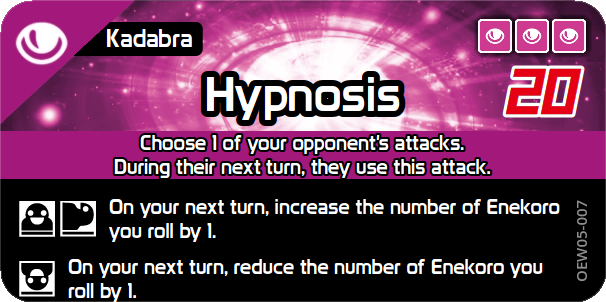
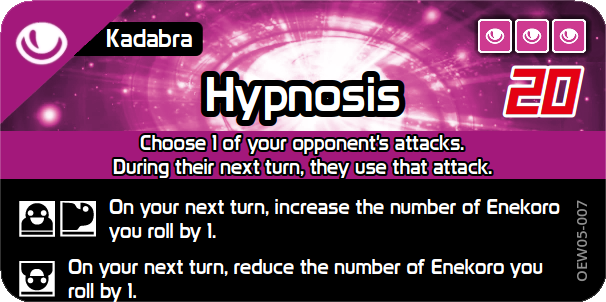
this to that

Changed region(s): [[0.1782, 0.5066, 0.8317, 0.596]]

diff --git a/database/text/wazacards/old/evolution_set/05-001_abra.md b/database/text/wazacards/old/evolution_set/05-001_abra.md
@@ -118,7 +118,7 @@ https://w.atwiki.jp/purakoro/pages/24.html
 | Pokémon   | Kadabra                                                                            |
 | Energy    | {P}{P}{P}                                                                          |
 | Damage    |                                                                                    |
-| Effect    | Choose 1 of your opponent's attacks. During their next turn, they use this attack. |
+| Effect    | Choose 1 of your opponent's attacks. During their next turn, they use that attack. |
 | Standing  | On your next turn, increase the number of Enekoro you roll by 1.                   |
 | Handstand | On your next turn, reduce the number of Enekoro you roll by 1.                     |
 | Back      | On your next turn, increase the number of Enekoro you roll by 1.                   |
@@ -239,7 +239,7 @@ https://w.atwiki.jp/purakoro/pages/24.html
 | Pokémon   | Alakazam                                                                                                                                                                                             |
 | Energy    | {P}{P}{P}{P}{P}                                                                                                                                                                                      |
 | Damage    |                                                                                                                                                                                                      |
-| Effect    | Choose 1 of your opponent's attacks. They can't use this attack. You can't use this attack again. (If your attack is used by attacks like "Metronome", they will also be unable to use that attack.) |
+| Effect    | Choose 1 of your opponent's attacks. They can't use this attack. You can't use that attack again. (If your attack is used by attacks like "Metronome", they will also be unable to use that attack.) |
 | Standing  | This attack does 20 damage.                                                                                                                                                                          |
 | Handstand | This Pokémon does 20 damage to itself.                                                                                                                                                               |
 | Back      |                                                                                                                                                                                                      |

diff --git a/database/text/wazacards/old/base+expansion_set/44-001_clefairy_str.md b/database/text/wazacards/old/base+expansion_set/44-001_clefairy_str.md
@@ -57,7 +57,7 @@ https://w.atwiki.jp/purakoro/pages/44.html
 		<!--2-4--><td style="">Handstand：This Pokémon does 10 damage to itself.</td></tr>
 <tr class="atwiki_tr_even atwiki_tr_4">		<!--3-0--><td style="">はねまわる</td>
 		<!--3-1--><td style="">{Y}{Y}</td>
-		<!--3-2--><td style="">On the opponent's next turn, reduce the number of Enekoro they roll by 1.<br>そして1つ前の自分の番にワザつきのひかりが成功していたらChoose 1 of your opponent's attacks. During their next turn, they can't use this attack.</td>
+		<!--3-2--><td style="">On the opponent's next turn, reduce the number of Enekoro they roll by 1.<br>そして1つ前の自分の番にワザつきのひかりが成功していたらChoose 1 of your opponent's attacks. During their next turn, they can't use that attack.</td>
 		<!--3-3--><td style="">なし</td>
 		<!--3-4--><td style="">Handstand：On your next turn, reduce the number of Enekoro you roll by 1.</td></tr>
 <tr class="atwiki_tr_odd atwiki_tr_5">		<!--4-0--><td style="">おうふくビンタ</td>

diff --git a/database/text/wazacards/old/evolution_set/04-001_eevee.md b/database/text/wazacards/old/evolution_set/04-001_eevee.md
@@ -292,7 +292,7 @@ https://w.atwiki.jp/purakoro/pages/113.html
 | Pokémon   | Vaporeon                                                                                 |
 | Energy    | {W{Y}{Y}{Y}}                                                                             |
 | Damage    | 30                                                                                       |
-| Effect    | Choose 1 of your opponent's attacks. During their next turn, they can't use this attack. |
+| Effect    | Choose 1 of your opponent's attacks. During their next turn, they can't use that attack. |
 | Standing  | This attack does 10 more damage.                                                         |
 | Handstand | On your next turn, reduce the number of Enekoro you roll by 1.                           |
 | Back      |                                                                                          |

diff --git a/database/text/wazacards/old/base+expansion_set/45-001_mew_str.md b/database/text/wazacards/old/base+expansion_set/45-001_mew_str.md
@@ -73,7 +73,7 @@ https://w.atwiki.jp/purakoro/pages/36.html
 		<!--5-4--><td style="">Handstand：This Pokémon does 10 damage to itself.</td></tr>
 <tr class="atwiki_tr_odd atwiki_tr_7">		<!--6-0--><td style="">ショックウェーブ</td>
 		<!--6-1--><td style="">{P}{P}{P}{P}</td>
-		<!--6-2--><td style="">This attack does 40 damage.<br>Choose 1 of your opponent's attacks. During their next turn, they can't use this attack.</td>
+		<!--6-2--><td style="">This attack does 40 damage.<br>Choose 1 of your opponent's attacks. During their next turn, they can't use that attack.</td>
 		<!--6-3--><td style="">Standing・Back：This attack does 10 more damage.</td>
 		<!--6-4--><td style="">Handstand：This Pokémon does 20 damage to itself.</td></tr>
 </tbody>

diff --git a/translations.md b/translations.md
@@ -49,7 +49,7 @@ On your next turn, increase the number of Enekoro you roll by $1 more.
 Choose 1 of your opponent's attacks. Use that attack rolling your opponent's Enekoros.
 
 次の相手の番に使えるワザカードを1つ選んでそれを使えなくする。<br>ワザの効果は1回で消える。
-Choose 1 of your opponent's attacks. During their next turn, they can't use this attack.
+Choose 1 of your opponent's attacks. During their next turn, they can't use that attack.
 
 最高HPが(\d+)になり
 Max HP becomes $1.
